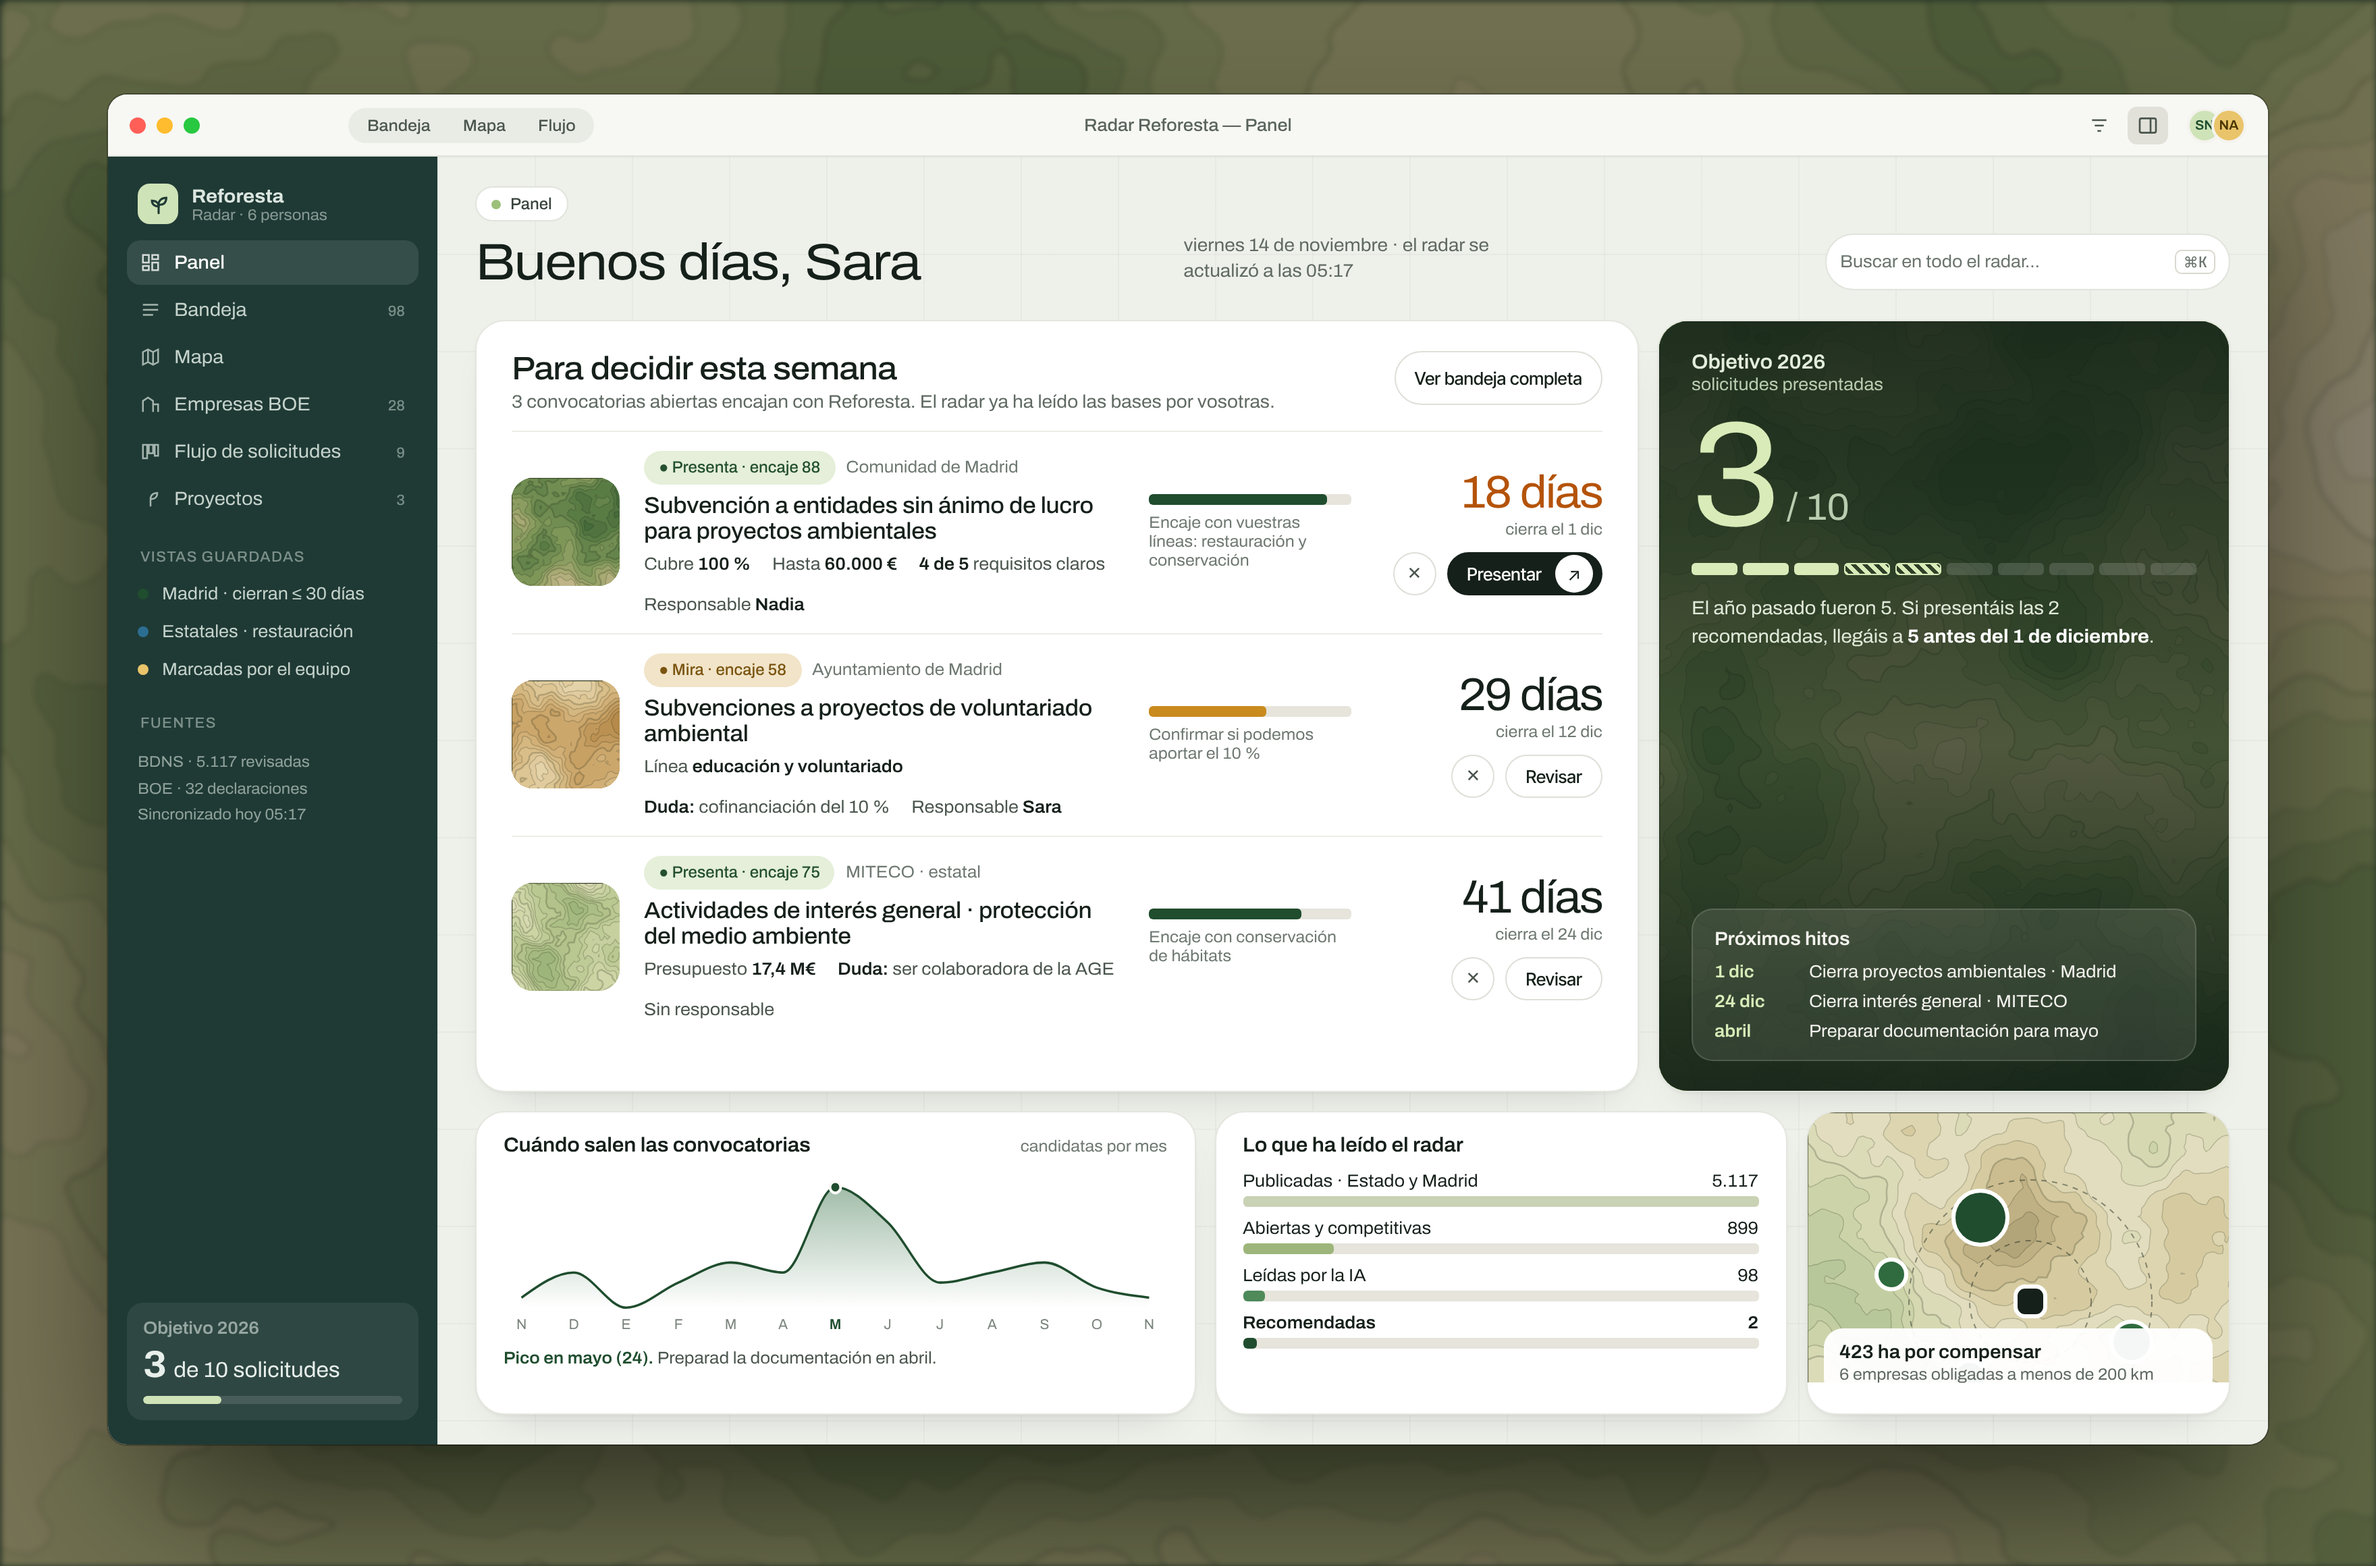
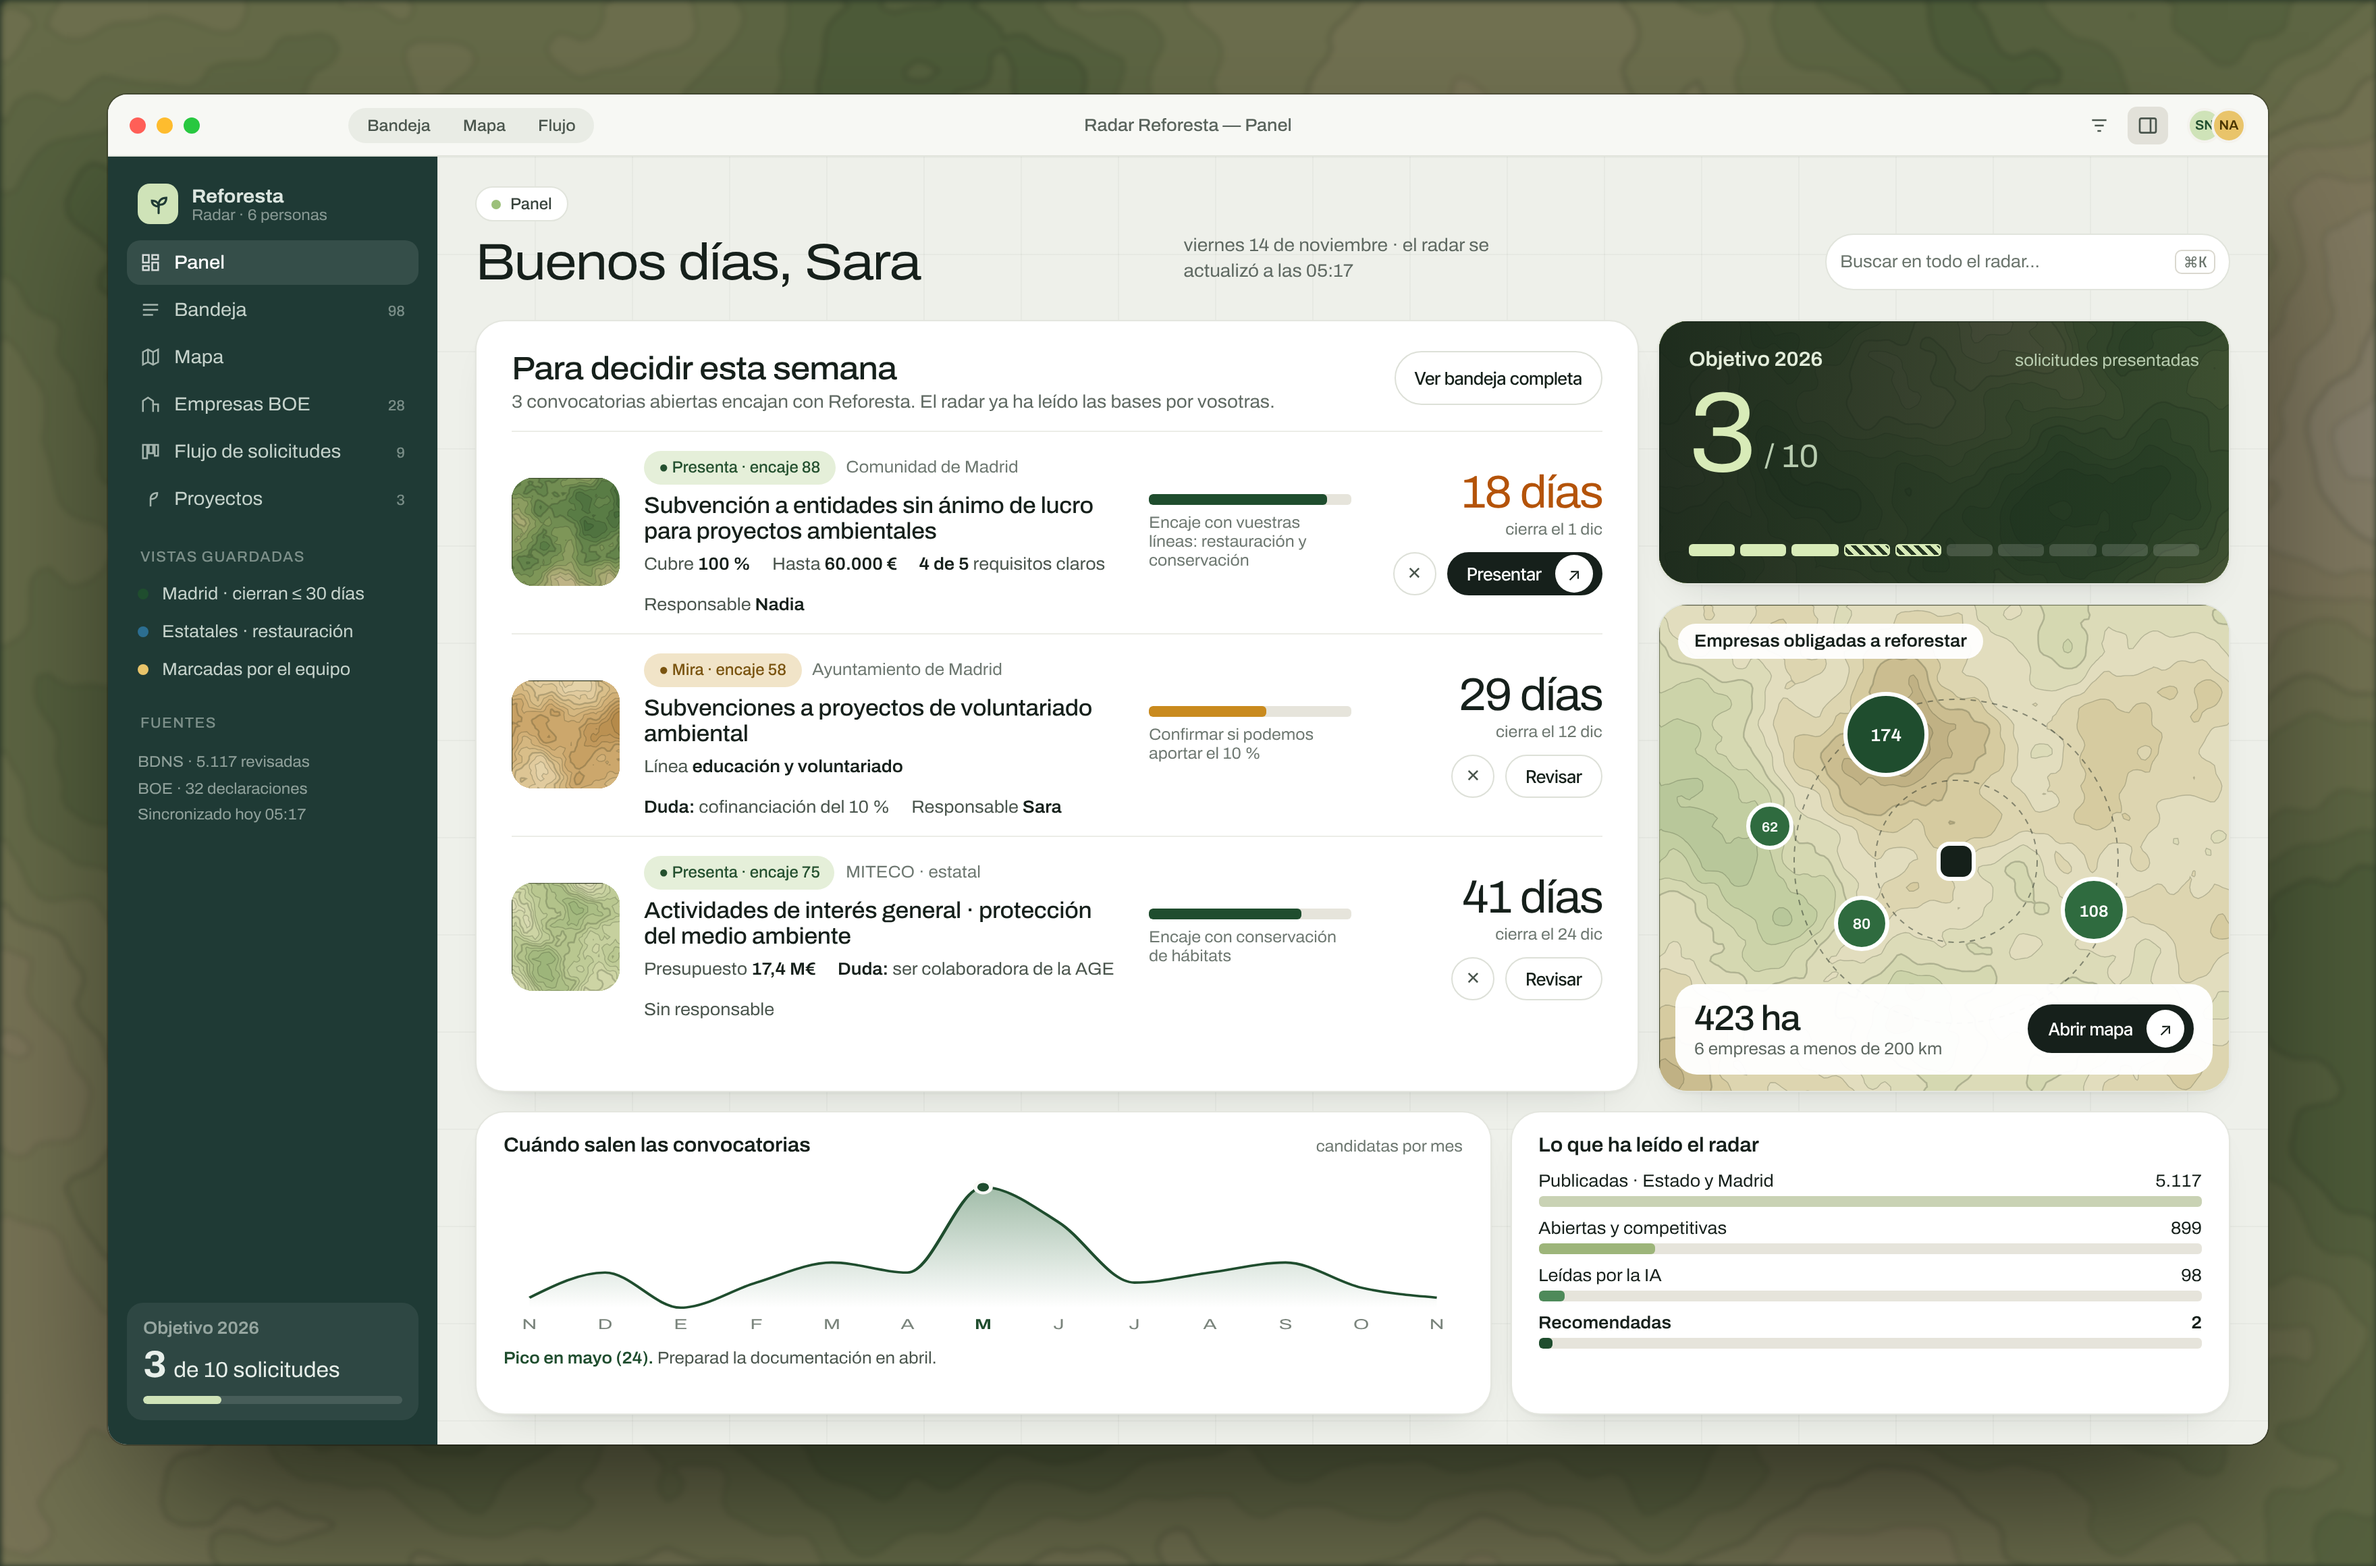
Prototipo Panel: mapa de empresas junto al objetivo, sin subtítulo
Claude-Session: https://claude.ai/code/session_012gZcx8pYrYaYRtrnjVJ3cN

diff --git a/prototipos/app/fuente/1-panel.html b/prototipos/app/fuente/1-panel.html
@@ -49,39 +49,40 @@
    </div>
   </div>
 
-  <!-- OBJETIVO -->
-  <div class="c" style="grid-column:span 4;padding:0">
-   <svg data-t="bosque:14:2" width="440" height="572" viewBox="0 0 440 572" aria-hidden="true" style="position:absolute;inset:0"></svg>
-   <div style="position:absolute;inset:0;background:linear-gradient(180deg,rgba(18,32,22,.88),rgba(18,32,22,.6) 55%,rgba(18,32,22,.92))"></div>
-   <div style="position:relative;padding:22px 24px;color:#F4F3EE;height:100%;display:flex;flex-direction:column">
-    <div class="k" style="color:#E4EEDC">Objetivo 2026</div><div style="font-size:13px;color:#B9CDB0;margin-top:2px">solicitudes presentadas</div>
-    <div style="display:flex;align-items:flex-end;gap:10px;margin-top:14px"><span style="font-size:110px;font-weight:400;letter-spacing:-.05em;line-height:.85;color:#D8EBB8">3</span><span style="font-size:28px;color:#B9CDB0;padding-bottom:8px">/ 10</span></div>
-    <div style="margin-top:18px;display:flex;gap:4px"><i style="flex:1;height:9px;border-radius:3px;background:#D8EBB8"></i><i style="flex:1;height:9px;border-radius:3px;background:#D8EBB8"></i><i style="flex:1;height:9px;border-radius:3px;background:#D8EBB8"></i><i style="flex:1;height:9px;border-radius:3px;background:repeating-linear-gradient(45deg,#D8EBB8 0 3px,transparent 3px 6px);box-shadow:inset 0 0 0 1px #D8EBB8"></i><i style="flex:1;height:9px;border-radius:3px;background:repeating-linear-gradient(45deg,#D8EBB8 0 3px,transparent 3px 6px);box-shadow:inset 0 0 0 1px #D8EBB8"></i><i style="flex:1;height:9px;border-radius:3px;background:rgba(255,255,255,.15)"></i><i style="flex:1;height:9px;border-radius:3px;background:rgba(255,255,255,.15)"></i><i style="flex:1;height:9px;border-radius:3px;background:rgba(255,255,255,.15)"></i><i style="flex:1;height:9px;border-radius:3px;background:rgba(255,255,255,.15)"></i><i style="flex:1;height:9px;border-radius:3px;background:rgba(255,255,255,.15)"></i></div>
-    <div style="font-size:14px;line-height:1.5;margin-top:14px;color:#E2EADB">El año pasado fueron 5. Si presentáis las 2 recomendadas, llegáis a <b style="color:#fff">5 antes del 1 de diciembre</b>.</div>
-    <div style="margin-top:auto;background:rgba(244,243,238,.1);border:1px solid rgba(255,255,255,.14);border-radius:16px;padding:14px 16px">
-     <div style="font-weight:600;font-size:14px">Próximos hitos</div>
-     <div style="display:flex;gap:12px;margin-top:10px;font-size:13px;align-items:center"><span style="width:58px;color:#D8EBB8;font-weight:600">1 dic</span>Cierra proyectos ambientales · Madrid</div>
-     <div style="display:flex;gap:12px;margin-top:8px;font-size:13px;align-items:center"><span style="width:58px;color:#D8EBB8;font-weight:600">24 dic</span>Cierra interés general · MITECO</div>
-     <div style="display:flex;gap:12px;margin-top:8px;font-size:13px;align-items:center"><span style="width:58px;color:#D8EBB8;font-weight:600">abril</span>Preparar documentación para mayo</div>
+  <!-- OBJETIVO + MAPA -->
+  <div style="grid-column:span 4;display:flex;flex-direction:column;gap:14px;min-height:0">
+   <div class="c" style="padding:0;height:196px;flex:none">
+    <svg data-t="bosque:14:1.6" width="440" height="196" viewBox="0 0 440 196" aria-hidden="true" style="position:absolute;inset:0"></svg>
+    <div style="position:absolute;inset:0;background:linear-gradient(90deg,rgba(18,32,22,.9),rgba(18,32,22,.6))"></div>
+    <div style="position:relative;padding:20px 22px;color:#F4F3EE;height:100%;display:flex;flex-direction:column">
+     <div style="display:flex;align-items:baseline"><span class="k" style="color:#E4EEDC">Objetivo 2026</span><span style="margin-left:auto;font-size:12.5px;color:#B9CDB0">solicitudes presentadas</span></div>
+     <div style="display:flex;align-items:flex-end;gap:10px;margin-top:12px"><span style="font-size:84px;font-weight:400;letter-spacing:-.05em;line-height:.85;color:#D8EBB8">3</span><span style="font-size:24px;color:#B9CDB0;padding-bottom:6px">/ 10</span></div>
+     <div style="margin-top:auto;display:flex;gap:4px"><i style="flex:1;height:9px;border-radius:3px;background:#D8EBB8"></i><i style="flex:1;height:9px;border-radius:3px;background:#D8EBB8"></i><i style="flex:1;height:9px;border-radius:3px;background:#D8EBB8"></i><i style="flex:1;height:9px;border-radius:3px;background:repeating-linear-gradient(45deg,#D8EBB8 0 3px,transparent 3px 6px);box-shadow:inset 0 0 0 1px #D8EBB8"></i><i style="flex:1;height:9px;border-radius:3px;background:repeating-linear-gradient(45deg,#D8EBB8 0 3px,transparent 3px 6px);box-shadow:inset 0 0 0 1px #D8EBB8"></i><i style="flex:1;height:9px;border-radius:3px;background:rgba(255,255,255,.15)"></i><i style="flex:1;height:9px;border-radius:3px;background:rgba(255,255,255,.15)"></i><i style="flex:1;height:9px;border-radius:3px;background:rgba(255,255,255,.15)"></i><i style="flex:1;height:9px;border-radius:3px;background:rgba(255,255,255,.15)"></i><i style="flex:1;height:9px;border-radius:3px;background:rgba(255,255,255,.15)"></i></div>
     </div>
+   </div>
+   <div class="c" style="padding:0;flex:1">
+    <svg data-t="mapa:21:1.8" width="440" height="362" viewBox="0 0 440 362" aria-hidden="true" style="position:absolute;inset:0"></svg>
+    <svg width="440" height="362" viewBox="0 0 440 362" aria-hidden="true" style="position:absolute;inset:0"><g fill="none" stroke="#15201A" stroke-dasharray="4 4" opacity=".45"><circle cx="220" cy="190" r="60"/><circle cx="220" cy="190" r="120"/></g>
+     <circle cx="168" cy="96" r="30" fill="#1F4D2E" stroke="#fff" stroke-width="3"/><text x="168" y="101" text-anchor="middle" font-family="Archivo" font-weight="600" font-size="13" fill="#fff">174</text>
+     <circle cx="322" cy="226" r="23" fill="#2F6B3F" stroke="#fff" stroke-width="3"/><text x="322" y="231" text-anchor="middle" font-family="Archivo" font-weight="600" font-size="12" fill="#fff">108</text>
+     <circle cx="150" cy="236" r="19" fill="#2F6B3F" stroke="#fff" stroke-width="3"/><text x="150" y="240" text-anchor="middle" font-family="Archivo" font-weight="600" font-size="11" fill="#fff">80</text>
+     <circle cx="82" cy="164" r="16" fill="#2F6B3F" stroke="#fff" stroke-width="3"/><text x="82" y="168" text-anchor="middle" font-family="Archivo" font-weight="600" font-size="10" fill="#fff">62</text>
+     <rect x="207" y="177" width="26" height="26" rx="8" fill="#15201A" stroke="#fff" stroke-width="3"/></svg>
+    <div style="position:absolute;left:14px;top:14px;background:rgba(255,255,255,.94);border-radius:999px;padding:6px 12px;font-size:13px;font-weight:600">Empresas obligadas a reforestar</div>
+    <div style="position:absolute;left:12px;right:12px;bottom:12px;background:rgba(255,255,255,.96);border-radius:16px;padding:12px 14px;display:flex;align-items:center;gap:10px"><div><div style="font-size:26px;font-weight:500;letter-spacing:-.03em;line-height:1">423 ha</div><div style="font-size:12.5px;color:#5F6962;margin-top:3px">6 empresas a menos de 200 km</div></div><span class="btn p" style="margin-left:auto;height:36px">Abrir mapa</span></div>
    </div>
   </div>
 
   <!-- SECUNDARIO -->
-  <div class="c" style="grid-column:span 5;padding:16px 20px"><div style="display:flex;align-items:baseline"><span class="k">Cuándo salen las convocatorias</span><span style="margin-left:auto;font-size:12px;color:#6E7871">candidatas por mes</span></div>
+  <div class="c" style="grid-column:span 7;padding:16px 20px"><div style="display:flex;align-items:baseline"><span class="k">Cuándo salen las convocatorias</span><span style="margin-left:auto;font-size:12px;color:#6E7871">candidatas por mes</span></div>
    <svg width="520" height="128" viewBox="0 0 740 180" preserveAspectRatio="none" aria-hidden="true" style="margin-top:6px;width:100%"><defs><linearGradient id="ar" x1="0" x2="0" y1="0" y2="1"><stop offset="0" stop-color="#2F6B3F" stop-opacity=".45"/><stop offset="1" stop-color="#2F6B3F" stop-opacity="0"/></linearGradient></defs><g id="season"></g></svg>
    <div style="font-size:12.5px;color:#4A554D;margin-top:6px"><b style="font-weight:600;color:#1F4D2E">Pico en mayo (24).</b> Preparad la documentación en abril.</div></div>
-  <div class="c" style="grid-column:span 4;padding:16px 20px"><div class="k">Lo que ha leído el radar</div>
+  <div class="c" style="grid-column:span 5;padding:16px 20px"><div class="k">Lo que ha leído el radar</div>
    <div style="display:flex;flex-direction:column;gap:9px;margin-top:12px">
     <div><div style="display:flex;justify-content:space-between;font-size:13px"><span>Publicadas · Estado y Madrid</span><span class="mono">5.117</span></div><div class="bar" style="height:8px;margin-top:4px"><i style="width:100%;background:#C9D2B4"></i></div></div>
     <div><div style="display:flex;justify-content:space-between;font-size:13px"><span>Abiertas y competitivas</span><span class="mono">899</span></div><div class="bar" style="height:8px;margin-top:4px"><i style="width:17.6%;background:#9DB57A"></i></div></div>
     <div><div style="display:flex;justify-content:space-between;font-size:13px"><span>Leídas por la IA</span><span class="mono">98</span></div><div class="bar" style="height:8px;margin-top:4px"><i style="width:4%;min-width:16px;background:#4E8A5A"></i></div></div>
     <div><div style="display:flex;justify-content:space-between;font-size:13px;font-weight:600"><span>Recomendadas</span><span class="mono">2</span></div><div class="bar" style="height:8px;margin-top:4px"><i style="width:1%;min-width:10px;background:#1F4D2E"></i></div></div></div></div>
-  <div class="c" style="grid-column:span 3;padding:0">
-   <svg data-t="mapa:21:1.6" width="330" height="200" viewBox="0 0 330 200" aria-hidden="true" style="position:absolute;inset:0"></svg>
-   <svg width="330" height="200" viewBox="0 0 330 200" aria-hidden="true" style="position:absolute;inset:0"><g fill="none" stroke="#15201A" stroke-dasharray="4 4" opacity=".45"><circle cx="165" cy="140" r="45"/><circle cx="165" cy="140" r="90"/></g>
-    <circle cx="128" cy="78" r="20" fill="#1F4D2E" stroke="#fff" stroke-width="3"/><circle cx="240" cy="170" r="15" fill="#2F6B3F" stroke="#fff" stroke-width="3"/><circle cx="120" cy="196" r="12" fill="#2F6B3F" stroke="#fff" stroke-width="3"/><circle cx="62" cy="120" r="11" fill="#2F6B3F" stroke="#fff" stroke-width="3"/><rect x="154" y="129" width="22" height="22" rx="7" fill="#15201A" stroke="#fff" stroke-width="3"/></svg>
-   <div style="position:absolute;left:12px;right:12px;bottom:12px;background:rgba(255,255,255,.95);border-radius:14px;padding:10px 12px"><div style="font-weight:600;font-size:14px">423 ha por compensar</div><div style="font-size:12px;color:#5F6962;margin-top:2px">6 empresas obligadas a menos de 200 km</div></div></div>
  </div>
 </div>
 <script>
